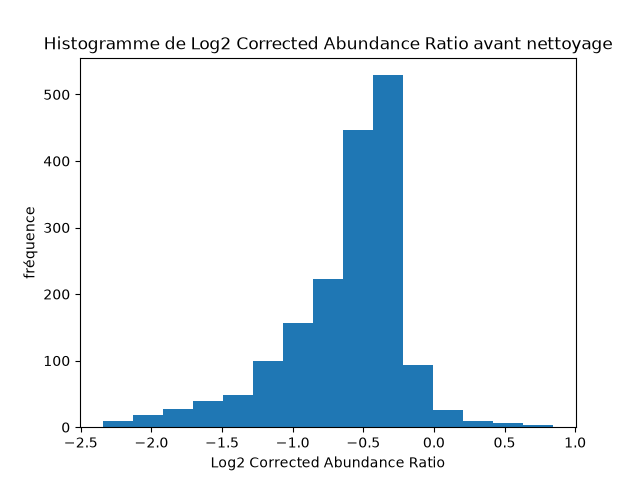
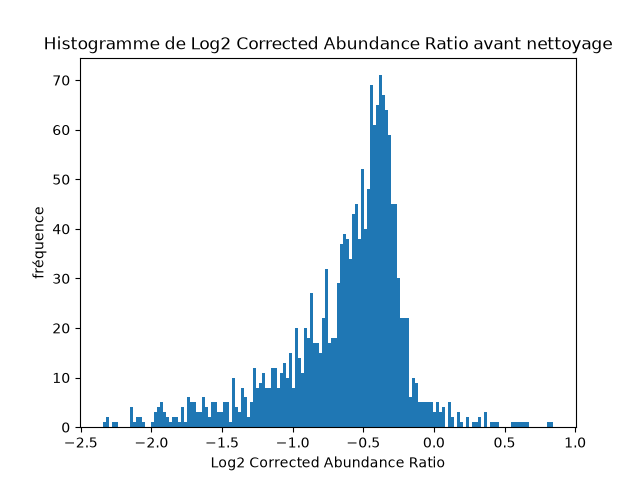
data

diff --git a/README.md b/README.md
@@ -255,14 +255,15 @@ On voit que les densités sont très faibles avant -2,5 donc je vais mettre le s
 ##### 2. Representez par un histogramme les valeurs de `Log2 Corrected Abundance Ratio`
 Après ce nettoyage on a : 
 
-![Histogramme à inserez ici](hist_log2_après.png)
+![](hist_log2_après.png)
 
 <!-- ##### 3. A partir de cette échantillon de ratio d'abondance,  estimez la moyenne <img src="https://render.githubusercontent.com/render/math?math=\mu"> et l'ecart-type <img src="https://render.githubusercontent.com/render/math?math=\sigma"> d'une loi normale. -->
 
 
 ##### 3. A partir de cette échantillon de ratio d'abondance,  estimez la moyenne $\mu$ et l'ecart-type $\sigma$ d'une loi normale.
 ```
-
+mu_obs = 0.623
+sigma_obs = 0.431
 
 ```
 
@@ -270,21 +271,21 @@ Après ce nettoyage on a :
 
 
 ```python
-# _ est le vecteur des valeurs d'abondance
-fig, ax = plt.subplots()
-hist = ax.hist(_, bins=100) # draw histogram
-x = np.linspace(min(_), max(_), 100) # generate PDF domain points
+ig, ax = plt.subplots()
+hist = ax.hist(df_filt["Log2 Corrected Abundance Ratio"], bins=100) # draw histogram
+x = np.linspace(min(df_filt["Log2 Corrected Abundance Ratio"]), max(df_filt["Log2 Corrected Abundance Ratio"]), 100) # generate PDF domain points
 dx = hist[1][1] - hist[1][0] # Get single value bar height
-scale = len(_)*dx # scale accordingly
+scale = len(df_filt["Log2 Corrected Abundance Ratio"])*dx # scale accordingly
 ax.plot(x, norm.pdf(x, mu, sigma)*scale) # compute theoritical PDF and draw it
+plt.savefig("hist_loi_norm")
 ```
 
-![Histogramme à inserez ici](histogram_log2FC.png "Title")
+![](hist_loi_norm.png "Title")
 
 ##### 5. Quelles remarques peut-on faire à l'observation de l'histogramme et de la loi théorique?
 
 ```
-
+On voit que la loi est décalée vers la gauche par rapport aux données mais étant donné que les abondances mesurées ne sont pas issues de la même protéine donc de la même mesure, il n'y a aucune raison que cela suive une loi normale.
 
 ```
 
